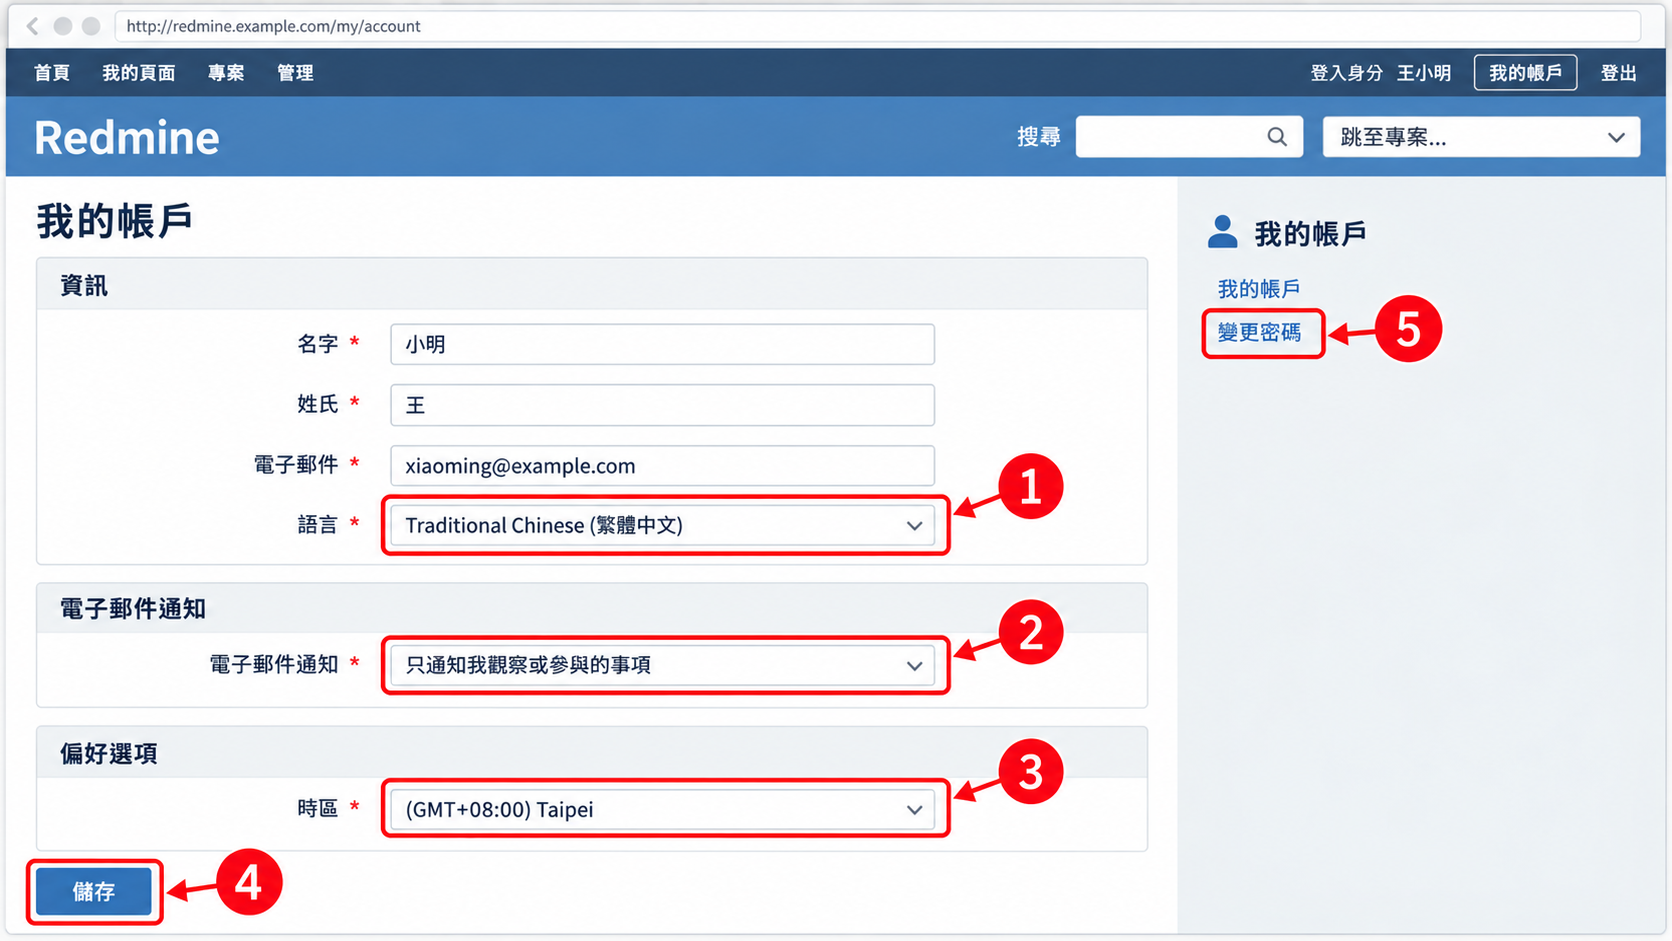
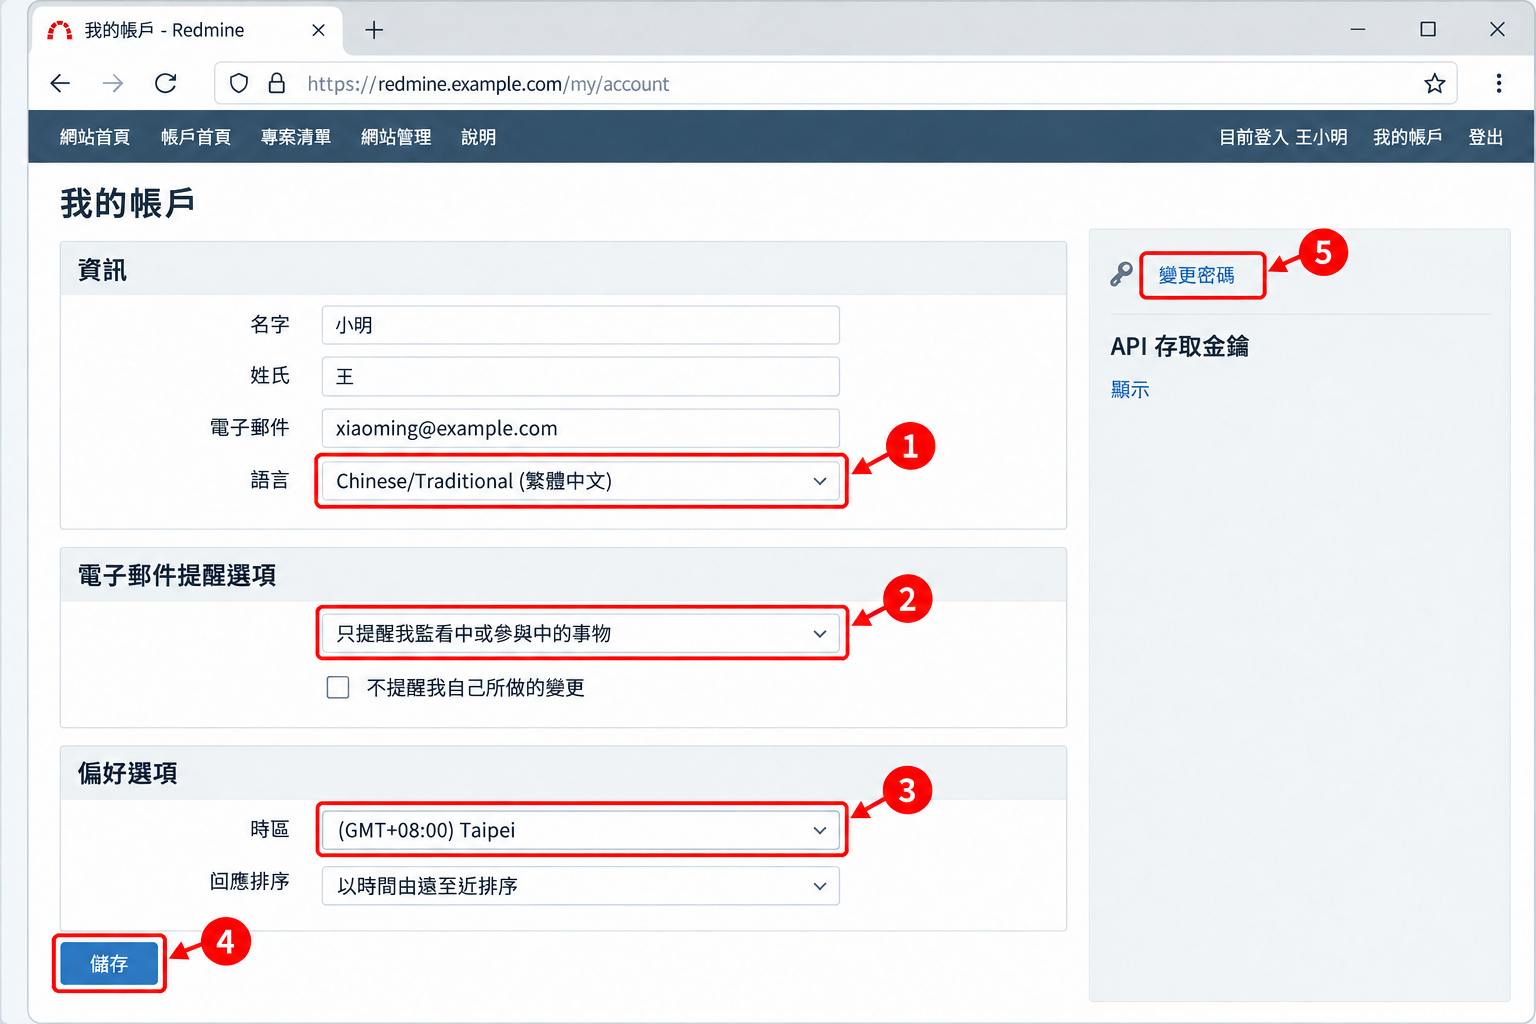
重新生成全部 27 張步驟圖，介面文字改為官方繁中用詞
- 補上 5 張缺圖（01-01、04-01、08-01、08-02、08-03）
- 22 張舊圖依新版提示詞重新生成並逐張核對文字
- 更新 CHATGPT_IMAGE_PROMPTS.md 的圖片狀態表與兩段提示詞

diff --git a/_maintainer/CHATGPT_IMAGE_PROMPTS.md b/_maintainer/CHATGPT_IMAGE_PROMPTS.md
@@ -59,37 +59,37 @@
 | 🔁 需重新生成 | 已有圖片，但畫面文字與目前內文不一致，或有亂碼、看似真實的個人資料 |
 | ⏳ 待生成 | 尚未生成，教學頁面目前會顯示為破圖 |
 
-2026-10 教學全面改用官方介面用詞後，所有既有圖片都需要依本檔的新版提示詞重新生成。
+2026-10-28 已依本檔提示詞重新生成全部 27 張圖，並逐張核對畫面文字。
 
 | 檔名 | 章節 | 狀態 | 備註 |
 |---|---|---|---|
-| `01-01-load-default-config.png` | 1.4 載入預設設定 | ⏳ 待生成 | |
-| `02-01-login.png` | 2.1 登入系統 | 🔁 需重新生成 | 頂端列與「遺失密碼」等文字為舊用詞 |
-| `02-02-layout.png` | 2.2 認識畫面配置 | 🔁 需重新生成 | 頂端列、頁籤、追蹤標籤與狀態為舊用詞 |
-| `02-03-my-account.png` | 2.3 個人帳戶設定 | 🔁 需重新生成 | 標註 1、2 指向的語言與通知選項文字已改 |
-| `02-04-my-page.png` | 2.4 我的頁面 | 🔁 需重新生成 | 頁面標題、區塊名稱已改；頂端列畫錯 |
-| `03-01-project-list.png` | 3.1 進入專案 | 🔁 需重新生成 | 大量亂碼；網址非 example.com |
-| `03-02-new-issue.png` | 3.2 建立議題 | 🔁 需重新生成 | 頂端列亂碼；人名不在清單中 |
-| `03-03-edit-issue.png` | 3.3 更新議題 | 🔁 需重新生成 | 大量亂碼；網址為 redmine.com |
-| `03-04-log-time.png` | 3.7 記錄工時 | 🔁 需重新生成 | 大量亂碼；網址為 redmine.com |
-| `03-05-issue-filter.png` | 3.8 篩選議題清單 | 🔁 需重新生成 | 篩選值與欄位名稱已改；頂端列亂碼 |
-| `04-01-formatting-toolbar.png` | 4.1 文字格式 | ⏳ 待生成 | |
-| `05-01-new-project.png` | 5.1 建立專案 | 🔁 需重新生成 | 表單欄位、模組、追蹤標籤為舊用詞；側邊欄有不存在的「匯入專案」 |
-| `05-02-add-members.png` | 5.2 加入專案成員 | 🔁 需重新生成 | 角色名稱已改；設定分頁有亂碼 |
-| `05-03-new-version.png` | 5.3 設定版本 | 🔁 需重新生成 | 標註 2 的版本狀態「開放中」應為「進行中」；共用選項錯誤 |
-| `05-04-bulk-edit.png` | 5.5 分派與追蹤工作 | 🔁 需重新生成 | 標註 3 的「分派給」應為「被分派者」 |
-| `05-05-gantt.png` | 5.7 甘特圖 | 🔁 需重新生成 | 頁籤與圖例為舊用詞；配色與內文不同 |
-| `05-06-roadmap.png` | 5.8 路線圖 | 🔁 需重新生成 | 頁籤與狀態為舊用詞；專案名稱與人名不符 |
-| `05-07-wiki.png` | 5.9 Wiki | 🔁 需重新生成 | 頁籤為舊用詞；編輯區為 Textile 語法 |
-| `05-08-time-report.png` | 5.10 工時報表 | 🔁 需重新生成 | 標註 1、3 的「報表」、「詳細」應為「報告」、「明細」 |
-| `07-01-settings.png` | 7.1 系統設定 | 🔁 需重新生成 | 後台選單與設定分頁為舊用詞；頂端列亂碼 |
-| `07-02-users.png` | 7.2 使用者管理 | 🔁 需重新生成 | 有類似真實的 gmail 信箱；大量亂碼 |
-| `07-03-roles.png` | 7.4 角色與權限 | 🔁 需重新生成 | 權限名稱重複、亂碼；網址為 www.redmine.com |
-| `07-04-workflow.png` | 7.7 工作流程 | 🔁 需重新生成 | 角色、追蹤標籤、狀態為舊用詞；頂端列亂碼 |
-| `07-05-custom-fields.png` | 7.8 自訂欄位 | 🔁 需重新生成 | 欄位名稱為舊用詞；網址為 redmine.com |
-| `08-01-repository-keywords.png` | 8.1 版本庫整合 | ⏳ 待生成 | |
-| `08-02-api-key.png` | 8.2 REST API | ⏳ 待生成 | |
-| `08-03-csv-import.png` | 8.3 CSV 匯入 | ⏳ 待生成 | |
+| `01-01-load-default-config.png` | 1.4 載入預設設定 | ✅ 可用 | |
+| `02-01-login.png` | 2.1 登入系統 | ✅ 可用 |  |
+| `02-02-layout.png` | 2.2 認識畫面配置 | ✅ 可用 |  |
+| `02-03-my-account.png` | 2.3 個人帳戶設定 | ✅ 可用 |  |
+| `02-04-my-page.png` | 2.4 我的頁面 | ✅ 可用 |  |
+| `03-01-project-list.png` | 3.1 進入專案 | ✅ 可用 |  |
+| `03-02-new-issue.png` | 3.2 建立議題 | ✅ 可用 |  |
+| `03-03-edit-issue.png` | 3.3 更新議題 | ✅ 可用 | 右側欄有一個虛構的「變更追蹤標籤」區塊，不影響教學 |
+| `03-04-log-time.png` | 3.7 記錄工時 | ✅ 可用 |  |
+| `03-05-issue-filter.png` | 3.8 篩選議題清單 | ✅ 可用 |  |
+| `04-01-formatting-toolbar.png` | 4.1 文字格式 | ✅ 可用 | |
+| `05-01-new-project.png` | 5.1 建立專案 | ✅ 可用 |  |
+| `05-02-add-members.png` | 5.2 加入專案成員 | ✅ 可用 |  |
+| `05-03-new-version.png` | 5.3 設定版本 | ✅ 可用 |  |
+| `05-04-bulk-edit.png` | 5.5 分派與追蹤工作 | ✅ 可用 | 「建立新議題」按鈕外多一個紅框，不影響教學 |
+| `05-05-gantt.png` | 5.7 甘特圖 | ✅ 可用 | #103 標為逾期，但完成日期其實還沒到 |
+| `05-06-roadmap.png` | 5.8 路線圖 | ✅ 可用 |  |
+| `05-07-wiki.png` | 5.9 Wiki | ✅ 可用 |  |
+| `05-08-time-report.png` | 5.10 工時報表 | ✅ 可用 | 右側欄為虛構內容，含舊詞「依使用者」 |
+| `07-01-settings.png` | 7.1 系統設定 | ✅ 可用 |  |
+| `07-02-users.png` | 7.2 使用者管理 | ✅ 可用 |  |
+| `07-03-roles.png` | 7.4 角色與權限 | ✅ 可用 |  |
+| `07-04-workflow.png` | 7.7 工作流程 | ✅ 可用 |  |
+| `07-05-custom-fields.png` | 7.8 自訂欄位 | ✅ 可用 |  |
+| `08-01-repository-keywords.png` | 8.1 版本庫整合 | ✅ 可用 | |
+| `08-02-api-key.png` | 8.2 REST API | ✅ 可用 | |
+| `08-03-csv-import.png` | 8.3 CSV 匯入 | ✅ 可用 | |
 
 > 更新圖片後，請一併更新這張表。
 
@@ -198,7 +198,7 @@ Show Redmine project "官網改版 2026" with the "設定" tab active. Below the
 ### `05-03-new-version.png`｜建立新版本
 
 ```
-Show the Redmine "建立新版本" form for project "官網改版 2026", tab "設定" active. Address bar: https://redmine.example.com/projects/website-2026/versions/new. Fields: "名稱" with "v1.0", "概述", "狀態" dropdown expanded showing options "進行中" (selected), "已鎖定", "已結束", "Wiki 網頁", "日期" with a date picker showing 2026-11-20, "共用" dropdown expanded showing "不共用" (selected), "與子專案共用", "與專案階層架構共用", "與專案樹共用", "與全部的專案共用". Buttons "建立" and "繼續建立". Annotations: red circle 1 on name, 2 on the status dropdown with its three options, 3 on date, 4 on sharing, 5 on "建立".
+Show the Redmine "建立新版本" form for project "官網改版 2026", tab "設定" active. Address bar: https://redmine.example.com/projects/website-2026/versions/new. Fields: "名稱" with "v1.0", "概述", "狀態" dropdown expanded showing exactly three options "進行中" (selected), "已鎖定", "已結束"; a separate text field "Wiki 網頁" below it (not inside the dropdown); "日期" with a date picker showing 2026-11-20, "共用" dropdown expanded showing "不共用" (selected), "與子專案共用", "與專案階層架構共用", "與專案樹共用", "與全部的專案共用". Buttons "建立" and "繼續建立". Annotations: red circle 1 on name, 2 on the status dropdown with its three options, 3 on date, 4 on sharing, 5 on "建立".
 ```
 
 ### `05-04-bulk-edit.png`｜批次編輯議題的右鍵選單
@@ -274,7 +274,7 @@ Show the Redmine "網站管理" > "設定" page with the "儲存機制清單" ta
 ### `08-02-api-key.png`｜API 存取金鑰
 
 ```
-Show the Redmine "我的帳戶" page. Address bar: https://redmine.example.com/my/account. No project tabs. The main area shows the account form (fields "名字", "姓氏", "電子郵件" with xiaoming@example.com). The right sidebar has a section "API 存取金鑰" with a link "顯示", the text "API 存取金鑰建立於 3 天 之前", and a link "回復". A small popup box next to it displays a masked key "••••••••••••••••••••••••". Annotations: red circle 1 on the "API 存取金鑰" section, 2 on "顯示", 3 on "回復", with a small red note label "請勿外流".
+Show the Redmine "我的帳戶" page. Address bar: https://redmine.example.com/my/account. No project tabs. The main area shows only one section "資訊" with exactly four fields "名字" (小明), "姓氏" (王), "電子郵件" (xiaoming@example.com), "語言" dropdown "Chinese/Traditional (繁體中文)", then a "儲存" button; no other sections. The right sidebar has a section "API 存取金鑰" with a link "顯示", the text "API 存取金鑰建立於 3 天 之前", and a link "回復". A small popup box next to it displays a masked key "••••••••••••••••••••••••". Annotations: red circle 1 on the "API 存取金鑰" section, 2 on "顯示", 3 on "回復", with a small red note label "請勿外流".
 ```
 
 ### `08-03-csv-import.png`｜CSV 匯入欄位對應
